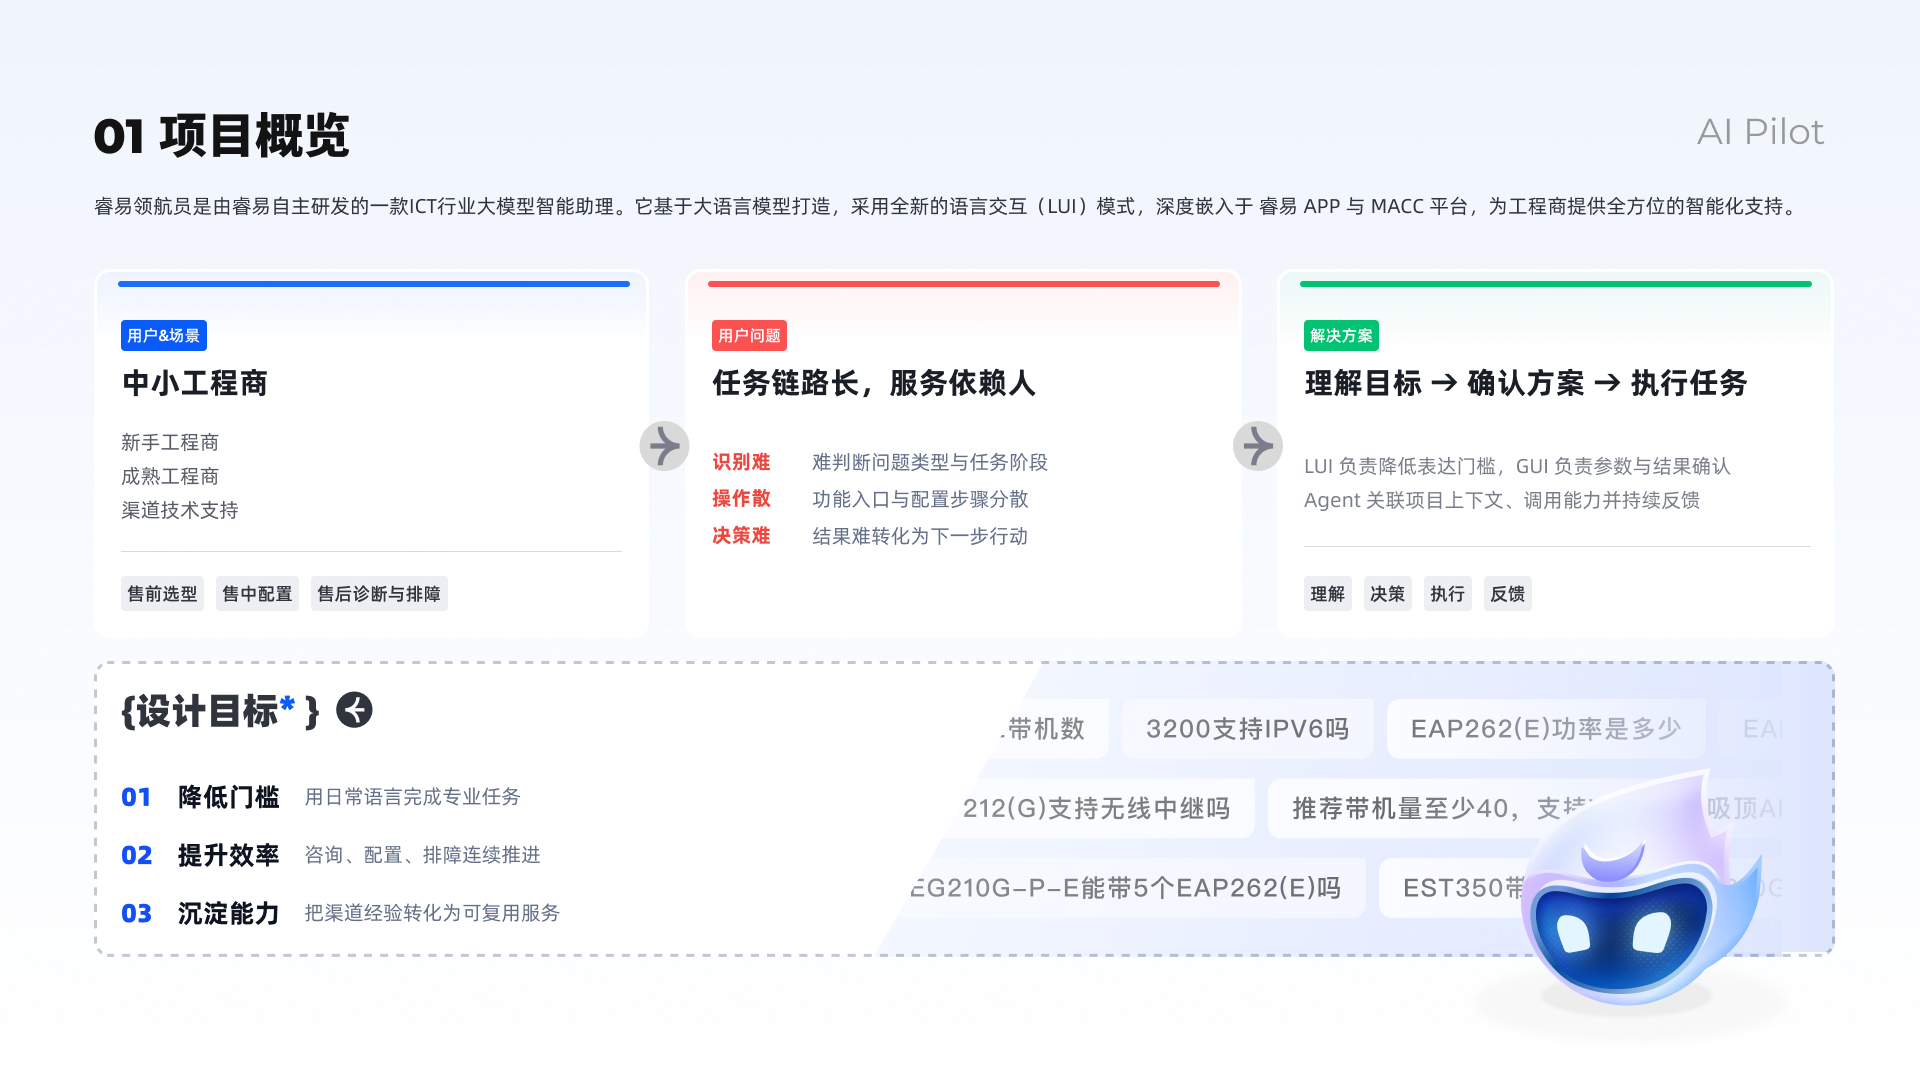
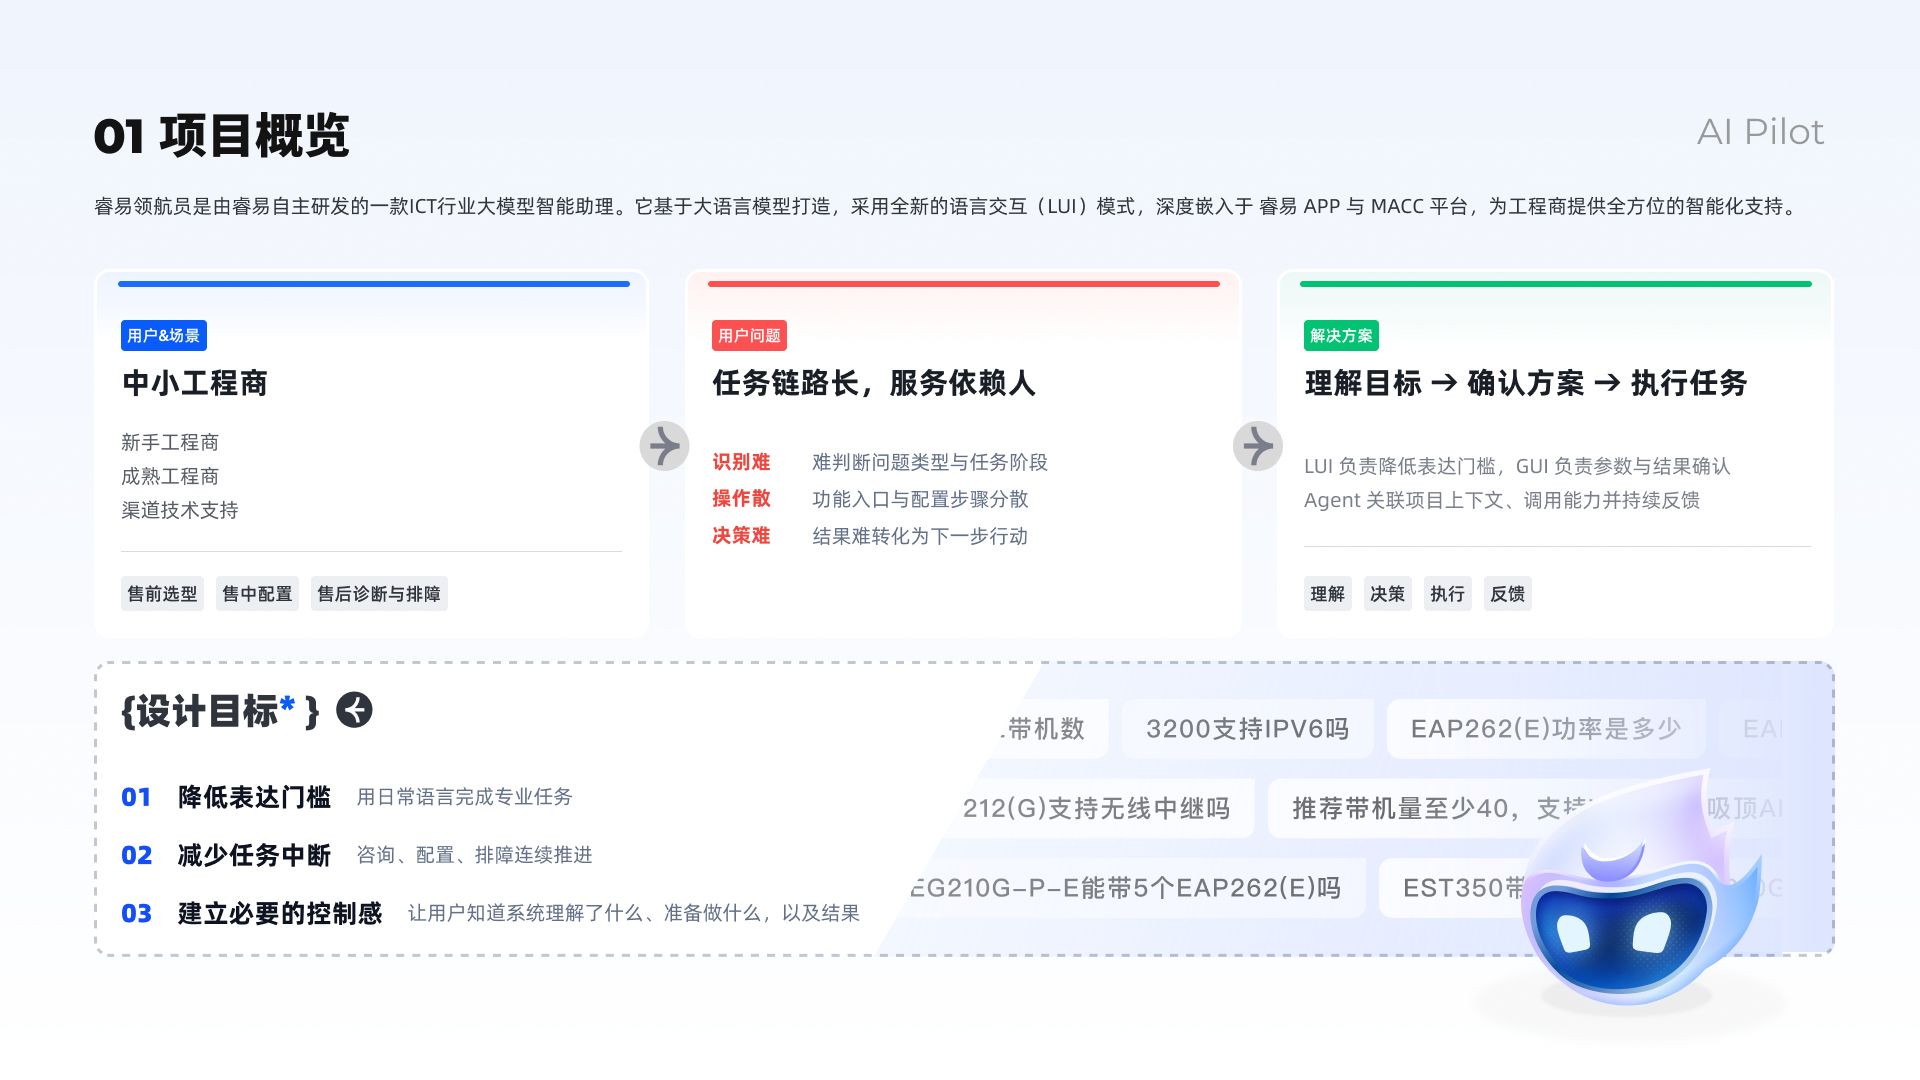
Update AI Pilot overview frame 2508:101774 only

Changed region(s): [[0.0938, 0.7028, 0.4375, 0.8556]]

diff --git a/ai-pilot.html b/ai-pilot.html
@@ -10,7 +10,7 @@
 <header class="case-nav"><a class="case-link" href="index.html#projects" aria-label="Back to projects"><svg class="case-arrow case-arrow-left" viewBox="0 0 24 24" fill="none" aria-hidden="true"><path d="M12 21V4M4 12l8-8 8 8" stroke="currentColor" stroke-width="3" stroke-linecap="square" stroke-linejoin="miter"/></svg>Back</a><span>AI PILOT</span><a class="case-link" href="#top">Back to top <svg class="case-arrow" viewBox="0 0 24 24" fill="none" aria-hidden="true"><path d="M12 21V4M4 12l8-8 8 8" stroke="currentColor" stroke-width="3" stroke-linecap="square" stroke-linejoin="miter"/></svg></a></header>
 <main id="top" aria-label="AI Pilot 完整项目案例">
 <section class="case-panel" aria-label="项目封面" data-figma-node="2508:102801"><img src="assets/ai-pilot/page-01.webp" width="1920" height="1080" alt="01 · 项目封面" loading="eager" decoding="async" fetchpriority=high></section>
-<section class="case-panel" aria-label="项目概览" data-figma-node="2508:101774"><img src="assets/ai-pilot/page-02.webp" width="1920" height="1080" alt="02 · 项目概览" loading="lazy" decoding="async" ></section>
+<section class="case-panel" aria-label="项目概览" data-figma-node="2508:101774"><img src="assets/ai-pilot/page-02.webp?v=91085f9b772b" width="1920" height="1080" alt="02 · 项目概览" loading="lazy" decoding="async" ></section>
 <section class="case-panel" aria-label="背景与挑战" data-figma-node="2508:101625"><img src="assets/ai-pilot/page-03.webp" width="1920" height="1080" alt="03 · 背景与挑战" loading="lazy" decoding="async" ></section>
 <section class="case-panel" aria-label="用户痛点" data-figma-node="2508:102028"><img src="assets/ai-pilot/page-04.webp" width="1920" height="1080" alt="04 · 用户痛点" loading="lazy" decoding="async" ></section>
 <section class="case-panel" aria-label="竞品分析" data-figma-node="2508:102844"><img src="assets/ai-pilot/page-05.webp" width="1920" height="1080" alt="05 · 竞品分析" loading="lazy" decoding="async" ></section>
